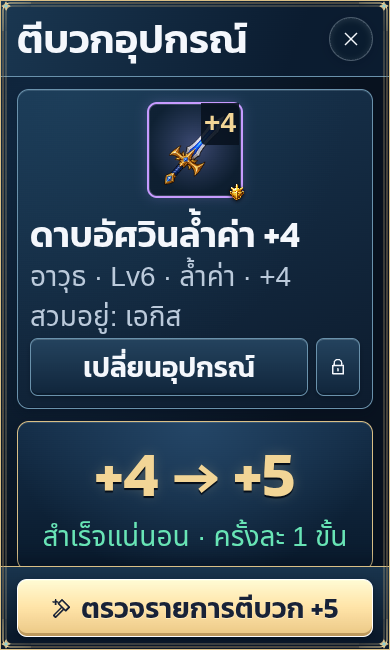
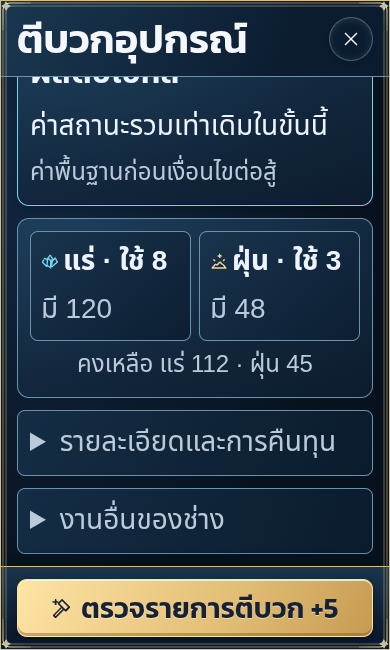
fix: scale enhancement detail text with accessibility size

diff --git a/tests/browser/enhancement-visual.spec.ts b/tests/browser/enhancement-visual.spec.ts
@@ -30,7 +30,7 @@ for(const [width,height,touch] of [[320,568,true],[390,650,true],[390,844,true],
     if(width===390&&height===844)await page.screenshot({path:'docs/validation/enhancement-visual/review-390.png'});
     await page.locator('#forge-cancel').click();await expect(page.locator('#forge-enhance')).toBeFocused();
     await page.evaluate(()=>document.documentElement.style.fontSize='32px');
-    await expect(page.locator('.forge-enhancement')).toHaveClass(/forge-text-large/);await bounds(page);
+    await expect(page.locator('.forge-enhancement')).toHaveClass(/forge-text-large/);await bounds(page);await page.locator('.forge-secondary-details > summary').click();expect(await page.locator('.forge-skills').evaluate(e=>getComputedStyle(e).fontSize)).toBe('28px');await page.locator('.forge-secondary-details > summary').click();
     if(width===390&&height===650)await page.screenshot({path:'docs/validation/enhancement-visual/text200-390.png'});
     await page.locator('#forge-enhance').click();await bounds(page);await page.keyboard.press('Escape');expect(await saved()).toBe(initial);
     await page.evaluate(()=>document.documentElement.style.fontSize='16px');await expect(page.locator('.forge-enhancement')).not.toHaveClass(/forge-text-large/);
@@ -51,5 +51,6 @@ test('enhancement keyboard, bag item identity and decorative URLs use the actual
   }
   expect(await page.locator('.forge-frame-trim').evaluate(e=>getComputedStyle(e).pointerEvents)).toBe('none');
   await page.locator('#forge-change-item').click();await page.locator('#forge-item-3').click();await expect(page.locator('.forge-hero-preview h4')).toHaveText('ผลต่ออุปกรณ์');await expect(page.locator('.forge-item-head')).toContainText('ไม่มีผู้สวม');
+  await page.evaluate(()=>document.documentElement.style.fontSize='32px');await page.locator('.forge-secondary-details > summary').click();expect(await page.locator('#forge-preview-hero').evaluate(e=>getComputedStyle(e).fontSize)).toBe('28px');
   const ids=await page.locator('.forge-workbench [id]').evaluateAll(nodes=>nodes.map(e=>e.id));expect(new Set(ids).size).toBe(ids.length);expect(await page.evaluate(k=>localStorage.getItem(k),key)).toBe(initial);
 });

diff --git a/src/ui/forge-enhancement.css b/src/ui/forge-enhancement.css
@@ -93,3 +93,4 @@
 .forge-enhancement .forge-step::before { left: 12px; }.forge-enhancement .forge-step::after { right: 12px; transform: scaleX(-1); }
 .forge-enhancement .forge-step.forge-hide-wings::before,.forge-enhancement .forge-step.forge-hide-wings::after { display: none; }
 @container game (max-width:360px) { .forge-enhancement[data-review=true] .forge-footer-buttons { flex-direction: column; } }
+.forge-enhancement :is(.forge-skills,.forge-label) { font-size: .875rem; }

diff --git a/docs/handoffs/CODEX-TO-CLAUDE.md b/docs/handoffs/CODEX-TO-CLAUDE.md
@@ -1,5 +1,12 @@
 # Codex → Claude handoff
 
+## 2026-11-02 — เก็บตัวอักษรรายละเอียด200%ก่อนปิดPR136
+
+- Reviewสุดท้ายพบforge-skills/forge-labelยังสืบทอด13pxเดิม ปรับเฉพาะscopeenhancementเป็น.875remและเพิ่มassertจริงที่root32ว่าskills/hero-select28px
+- typecheck/lint/buildPagesและvisualPages6กลุ่มผ่านอีกครั้ง ไม่เปลี่ยนrule/save/inputbehavior; ส่งheadใหม่ให้quality/browserครบชุด ไม่ใช้ผล4ca853dแทนheadใหม่
+- PR136รอCIและPagesตามขั้นตอนเดิม เจ้าของย้ำ “ดำเนินงานต่อ” ระหว่างรอ ยังคงงานให้เสร็จไม่เปิดหน้าพัฒนาอื่น
+
+
 ## 2026-11-02 — นำภาพหน้าตีบวก ART-UI-UX-002 เข้า runtime
 
 - เจ้าของสั่ง “ดำเนินการต่อได้” หลังปิดhandoff1–7 จึงเริ่มimplementationจริงบน `codex/enhancement-visual-integration` จากremoteเกม07f95a7 ไม่mergeART PR133ทั้งชุด แบบอ้างอิงa77d17b
